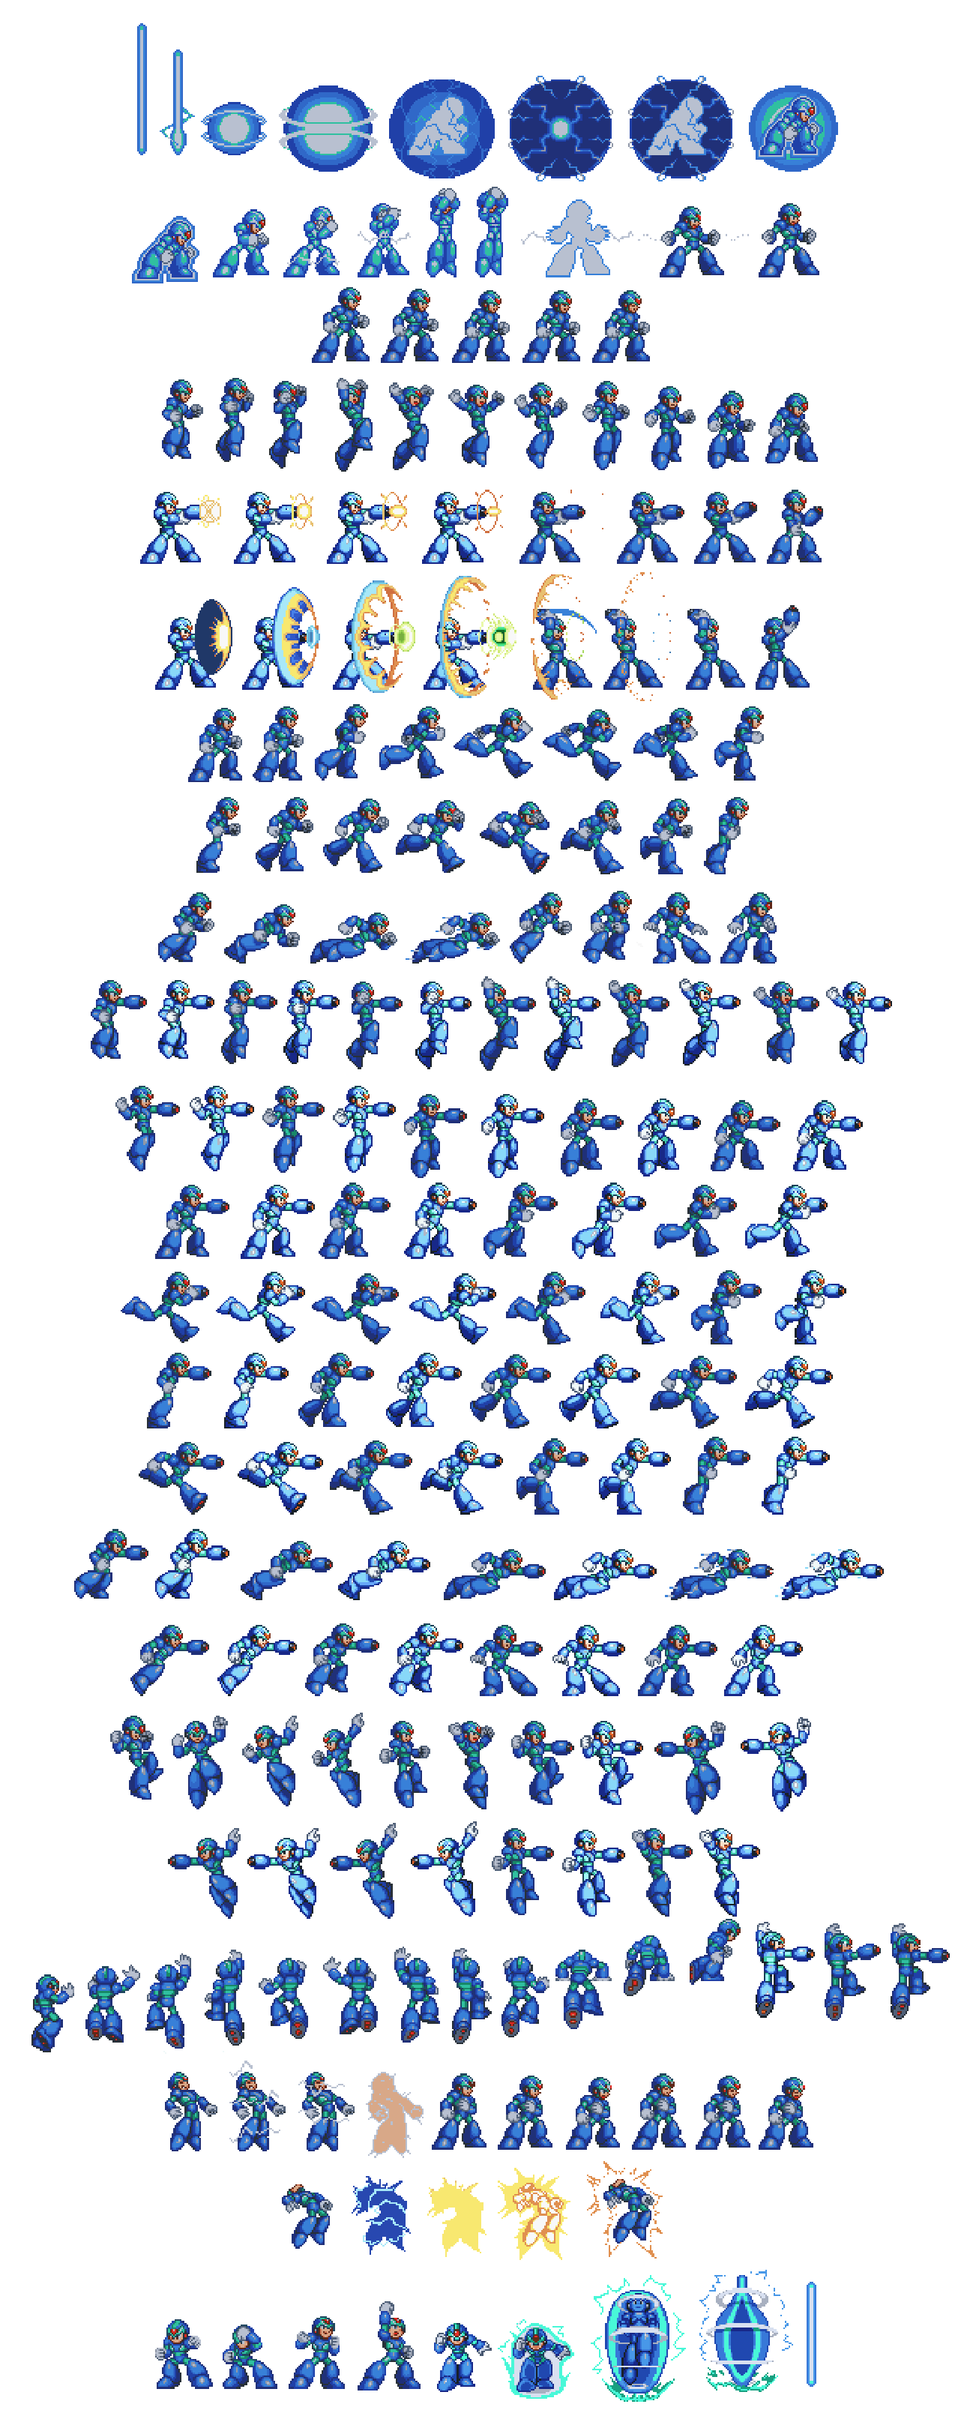
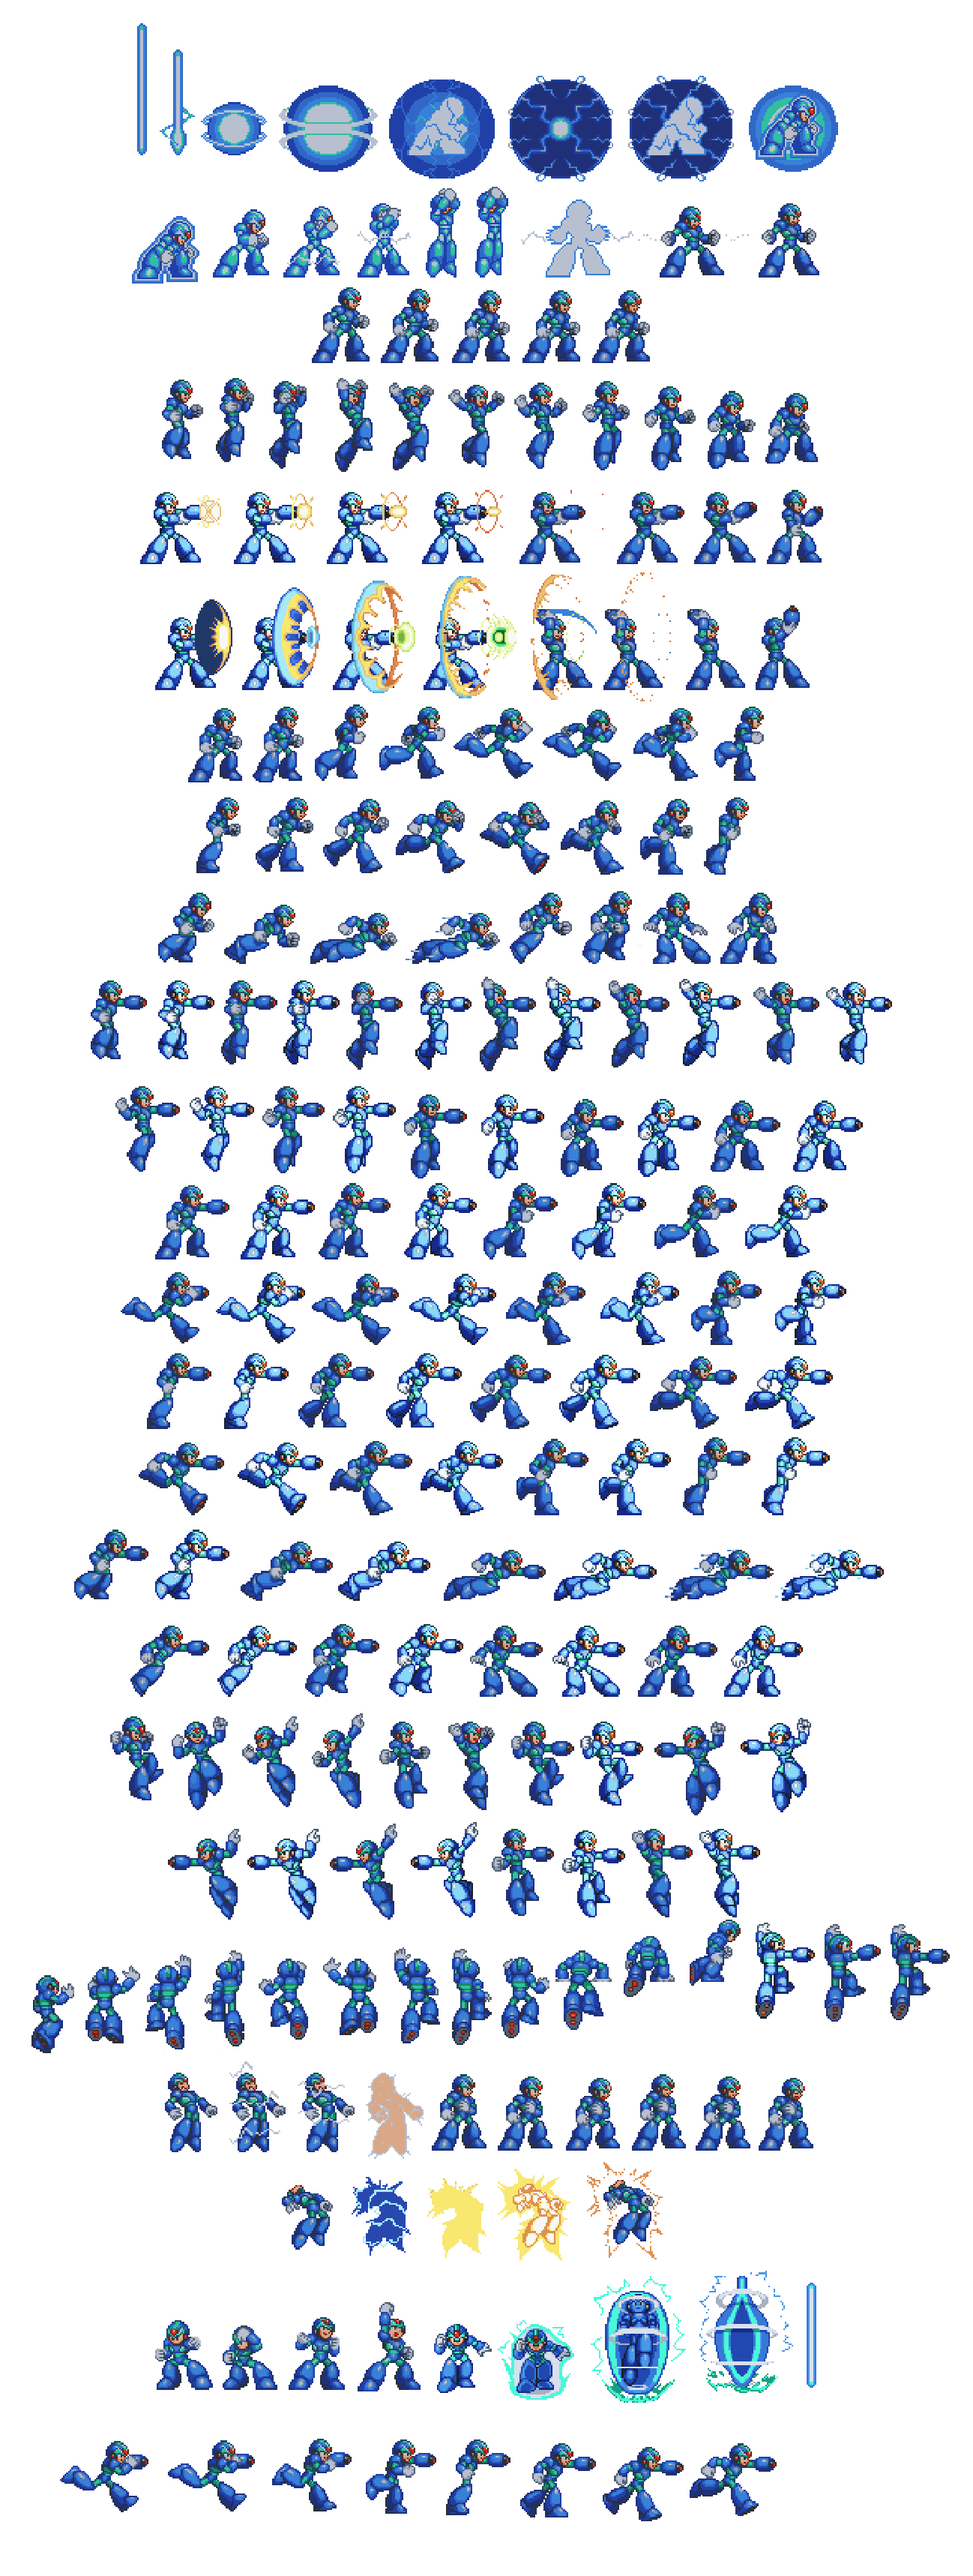
Added shooting+walking animation.

diff --git a/megaman.cpp b/megaman.cpp
@@ -35,7 +35,7 @@ bool Megaman::initialize(Game *gamePtr, int width, int height, int ncols,
 	TextureManager *textureM)
 {
 	// megaman sprite initialize
-	megamanSpriteCoordinates.populateVector("xcoords.txt");
+	megamanSpriteCoordinates.populateVector("pictures\\mmx4.xml");
 	if (!initializeCoords(megamanSpriteCoordinates))
 		throw(GameError(gameErrorNS::FATAL_ERROR, "Error initializing megaman"));
 	
@@ -65,6 +65,7 @@ bool Megaman::initialize(Game *gamePtr, int width, int height, int ncols,
 	megamanJumping.setFrames(megamanNS::JUMPING_MEGAMAN_START_FRAME, megamanNS::JUMPING_MEGAMAN_END_FRAME);
 	megamanJumping.setCurrentFrame(megamanNS::JUMPING_MEGAMAN_START_FRAME);
 	megamanJumping.setFrameDelay(megamanNS::JUMPING_MEGAMAN_ANIMATION_DELAY);
+	megamanJumping.setLoop(false);
 	
 	//Jump Peak
 	megamanJumpPeak.initialize(gamePtr->getGraphics(), megamanNS::WIDTH,
@@ -101,6 +102,7 @@ bool Megaman::initialize(Game *gamePtr, int width, int height, int ncols,
 	megamanShootingJump.setFrames(megamanNS::SHOOTING_JUMP_MEGAMAN_START_FRAME, megamanNS::SHOOTING_JUMP_MEGAMAN_END_FRAME);
 	megamanShootingJump.setCurrentFrame(megamanNS::SHOOTING_JUMP_MEGAMAN_START_FRAME);
 	megamanShootingJump.setFrameDelay(megamanNS::SHOOTING_JUMP_MEGAMAN_ANIMATION_DELAY);
+	megamanShootingJump.setLoop(false);
 
 	//Shooting & Jump Peak
 	megamanShootingJumpPeak.initialize(gamePtr->getGraphics(), megamanNS::WIDTH,
@@ -119,6 +121,7 @@ bool Megaman::initialize(Game *gamePtr, int width, int height, int ncols,
 	megamanShootingFalling.setFrames(megamanNS::SHOOTING_FALLING_MEGAMAN_START_FRAME, megamanNS::SHOOTING_FALLING_MEGAMAN_END_FRAME);
 	megamanShootingFalling.setCurrentFrame(megamanNS::SHOOTING_FALLING_MEGAMAN_START_FRAME);
 	megamanShootingFalling.setFrameDelay(megamanNS::SHOOTING_FALLING_MEGAMAN_ANIMATION_DELAY);
+	megamanShootingFalling.setLoop(false);
 
 	//Dashing
 	megamanDashing.initialize(gamePtr->getGraphics(), megamanNS::WIDTH,
@@ -129,14 +132,14 @@ bool Megaman::initialize(Game *gamePtr, int width, int height, int ncols,
 	megamanDashing.setCurrentFrame(megamanNS::DASHING_MEGAMAN_START_FRAME);
 	megamanDashing.setFrameDelay(megamanNS::DASHING_MEGAMAN_ANIMATION_DELAY);
 
-	////////////Walking and shooting																				// Needs to modify sprite sheet for this to work
-	//////////megamanShootingWalking.initialize(gamePtr->getGraphics(), megamanNS::WIDTH,							// Could possible work by modifying currentFrame when updating frames
-	//////////	megamanNS::HEIGHT, 0, textureM);
-	//////////if (!megamanShootingWalking.initialize(megamanSpriteCoordinates))
-	//////////	throw(GameError(gameErrorNS::FATAL_ERROR, "Error initializing megaman"));
-	//////////megamanShootingWalking.setFrames(megamanNS::SHOOTING_WALKING_MEGAMAN_START_FRAME, megamanNS::SHOOTING_WALKING_MEGAMAN_END_FRAME);
-	//////////megamanShootingWalking.setCurrentFrame(megamanNS::SHOOTING_WALKING_MEGAMAN_START_FRAME);
-	//////////megamanShootingWalking.setFrameDelay(megamanNS::SHOOTING_WALKING_MEGAMAN_ANIMATION_DELAY);
+	//Walking and shooting																				// Needs to modify sprite sheet for this to work
+	megamanShootingWalking.initialize(gamePtr->getGraphics(), megamanNS::WIDTH,							// Could possible work by modifying currentFrame when updating frames
+		megamanNS::HEIGHT, 0, textureM);
+	if (!megamanShootingWalking.initialize(megamanSpriteCoordinates))
+		throw(GameError(gameErrorNS::FATAL_ERROR, "Error initializing megaman"));
+	megamanShootingWalking.setFrames(megamanNS::SHOOTING_WALKING_MEGAMAN_START_FRAME, megamanNS::SHOOTING_WALKING_MEGAMAN_END_FRAME);
+	megamanShootingWalking.setCurrentFrame(megamanNS::SHOOTING_WALKING_MEGAMAN_START_FRAME);
+	megamanShootingWalking.setFrameDelay(megamanNS::SHOOTING_WALKING_MEGAMAN_ANIMATION_DELAY);
 
 	//Dashing and shooting
 	megamanShootingDashing.initialize(gamePtr->getGraphics(), megamanNS::WIDTH,
@@ -241,26 +244,26 @@ void Megaman::update(float frameTime)
 		if (spriteData.direction == LEFT)
 		{
 			spriteData.flipHorizontal = true;
-			//if (spriteData.shotType != NONE)
-			//{
-			//	megamanShootingWalking.update(frameTime);
-			//}
-			//else
-			//{
+			if (spriteData.shotType != NONE)
+			{
+				megamanShootingWalking.update(frameTime);
+			}
+			else
+			{
 				megamanWalking.update(frameTime);
-			//}
+			}
 		}
 		else
 		{
 			spriteData.flipHorizontal = false;
-			//if (spriteData.shotType != NONE)
-			//{
-			//	megamanShootingWalking.update(frameTime);
-			//}
-			//else
-			//{
+			if (spriteData.shotType != NONE)
+			{
+				megamanShootingWalking.update(frameTime);
+			}
+			else
+			{
 				megamanWalking.update(frameTime);
-			//}
+			}
 		}
 
 		if (canWallJump_)
@@ -344,7 +347,6 @@ void Megaman::update(float frameTime)
 			{
 				canJump_ = false;
 			}
-
 		}
 		if (velocity.y >= 0)
 		{
@@ -384,6 +386,11 @@ void Megaman::update(float frameTime)
 		{
 			megamanDashing.update(frameTime);
 		}
+
+		megamanShootingJump.update(frameTime);
+		megamanShootingFalling.update(frameTime);
+		megamanJumping.update(frameTime);
+		megamanFalling.update(frameTime);
 
 		if (canWallJump_ && !standingOnSurface_)
 		{
@@ -623,14 +630,14 @@ void Megaman::draw()
 	{
 		if (spriteData.state == WALKING)
 		{
-			//if (spriteData.shotType == NONE)
-			//{
+			if (spriteData.shotType == NONE)
+			{
 				megamanWalking.draw(spriteData);
-			//}
-			//else
-			//{
-			//	megamanShootingWalking.draw(spriteData);
-			//}
+			}
+			else
+			{
+				megamanShootingWalking.draw(spriteData);
+			}
 		}
 		else if (spriteData.state == WALL_SLIDING)
 		{

diff --git a/megaman.h b/megaman.h
@@ -24,7 +24,7 @@ namespace megamanNS
 	const int WALKING_MEGAMAN_END_FRAME = 67;
 	const float WALKING_MEGAMAN_ANIMATION_DELAY = 0.06f;
 
-	const int JUMPING_MEGAMAN_START_FRAME = 26;
+	const int JUMPING_MEGAMAN_START_FRAME = 24;
 	const int JUMPING_MEGAMAN_END_FRAME = 26;
 	const float JUMPING_MEGAMAN_ANIMATION_DELAY = 0.07f;
 
@@ -41,20 +41,20 @@ namespace megamanNS
 	const float SHOOTING_MEGAMAN_ANIMATION_DELAY = 0.07f;
 
 	const int SHOOTING_JUMP_MEGAMAN_START_FRAME = 84;
-	const int SHOOTING_JUMP_MEGAMAN_END_FRAME = 84;
+	const int SHOOTING_JUMP_MEGAMAN_END_FRAME = 86;
 	const float SHOOTING_JUMP_MEGAMAN_ANIMATION_DELAY = 0.07f;
 
 	const int SHOOTING_JUMP_PEAK_MEGAMAN_START_FRAME = 86;
 	const int SHOOTING_JUMP_PEAK_MEGAMAN_END_FRAME = 86;
 	const float SHOOTING_JUMP_PEAK_MEGAMAN_ANIMATION_DELAY = 0.07f;
 
-	const int SHOOTING_FALLING_MEGAMAN_START_FRAME = 88;
+	const int SHOOTING_FALLING_MEGAMAN_START_FRAME = 87;
 	const int SHOOTING_FALLING_MEGAMAN_END_FRAME = 88;
 	const float SHOOTING_FALLING_MEGAMAN_ANIMATION_DELAY = 0.07f;
 
-	//const int SHOOTING_WALKING_MEGAMAN_START_FRAME = 100;
-	//const int SHOOTING_WALKING_MEGAMAN_END_FRAME = 128;
-	//const float SHOOTING_WALKING_MEGAMAN_ANIMATION_DELAY = 0.07f;
+	const int SHOOTING_WALKING_MEGAMAN_START_FRAME = 212;
+	const int SHOOTING_WALKING_MEGAMAN_END_FRAME = 219;
+	const float SHOOTING_WALKING_MEGAMAN_ANIMATION_DELAY = 0.07f;
 
 	const int DASHING_MEGAMAN_START_FRAME = 71;
 	const int DASHING_MEGAMAN_END_FRAME = 71;
@@ -140,7 +140,7 @@ private:
 	Image megamanWallSliding;
 	Image megamanDamaged;
 	Image megamanDying;
-	//Image megamanShootingWalking;		// Needs to modify sprite sheet for this to work
+	Image megamanShootingWalking;		// Needs to modify sprite sheet for this to work
 										// Could possible work by modifying currentFrame when updating frames
 
 	bool standingOnSurface_ = true;

diff --git a/Level1.cpp b/Level1.cpp
@@ -198,9 +198,7 @@ void Level1::collisions(float frameTime)
 		{
 			if (bullet[i].collidesWith(*enemy[j], cv))
 			{
-				enemy[j]->damage(static_cast<WEAPON>(bullet[i].getShotType() + 3));
-				//enemy[j]->setActive(false);
-				//enemy[j]->setState(DEAD);
+				enemy[j]->damage(static_cast<WEAPON>(bullet[i].getShotType() + 3)); // off by 3 from shot type enum 
 				bullet[i].setActive(false);
 				bullet[i].setVisible(false);
 				audio->playCue(EXPLODE);
